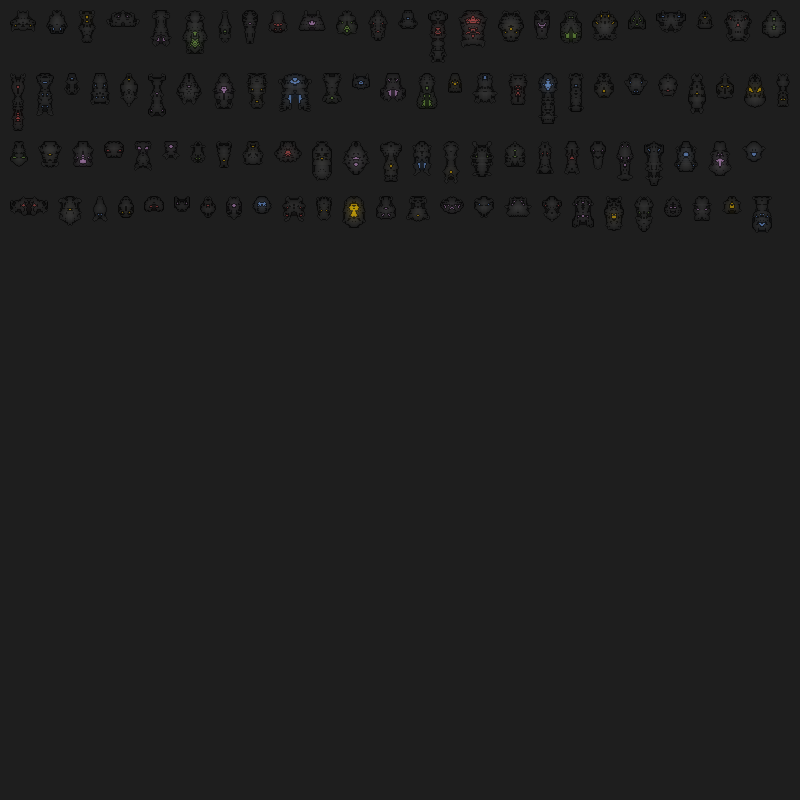
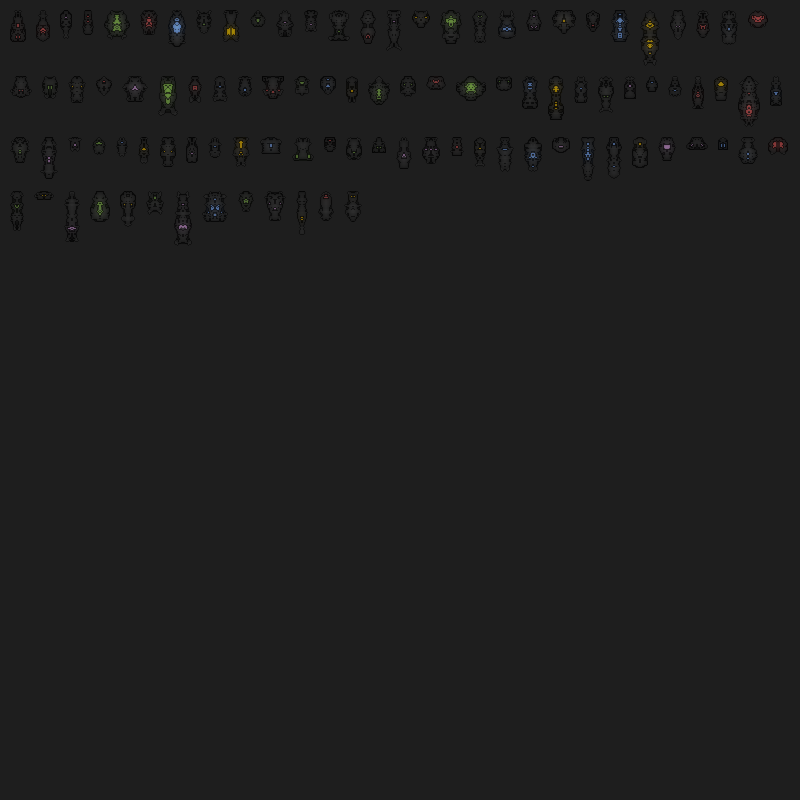
Updates

diff --git a/src/ajb/factory/VesselGeneratorFactory.java b/src/ajb/factory/VesselGeneratorFactory.java
@@ -46,74 +46,6 @@ public class VesselGeneratorFactory {
 		}
 	}
 	
-	private int calculateMinNoOfSteps(AssetSize size) {
-		
-		int result = 0;
-		
-		if (size.equals(AssetSize.RANDOM)) {
-			result = 5;
-		} else if (size.equals(AssetSize.SMALL)) {
-			result = 5;
-		} else if (size.equals(AssetSize.MEDIUM)) {
-			result = 10;
-		} else if (size.equals(AssetSize.LARGE)) {
-			result = 15;
-		}		
-		
-		return result;
-	}
-	
-	private int calculateMaxNoOfSteps(AssetSize size) {
-		
-		int result = 0;
-		
-		if (size.equals(AssetSize.RANDOM)) {
-			result = 45;
-		} else if (size.equals(AssetSize.SMALL)) {
-			result = 15;
-		} else if (size.equals(AssetSize.MEDIUM)) {
-			result = 30;
-		} else if (size.equals(AssetSize.LARGE)) {
-			result = 45;
-		}		
-		
-		return result;
-	}	
-	
-	private int calculateMinNoOfSubSteps(AssetSize size) {
-		
-		int result = 1;
-		
-		if (size.equals(AssetSize.RANDOM)) {
-			result = 15;
-		} else if (size.equals(AssetSize.SMALL)) {
-			result = 5;
-		} else if (size.equals(AssetSize.MEDIUM)) {
-			result = 10;
-		} else if (size.equals(AssetSize.LARGE)) {
-			result = 15;
-		}		
-		
-		return result;
-	}
-	
-	private int calculateMaxNoOfSubSteps(AssetSize size) {
-		
-		int result = 0;
-		
-		if (size.equals(AssetSize.RANDOM)) {
-			result = 50;
-		} else if (size.equals(AssetSize.SMALL)) {
-			result = 30;
-		} else if (size.equals(AssetSize.MEDIUM)) {
-			result = 40;
-		} else if (size.equals(AssetSize.LARGE)) {
-			result = 50;
-		}		
-		
-		return result;
-	}	
-
 	private boolean validateGrid(Pixel[][] grid, AssetSize size) {
 		
 		boolean result = true;
@@ -142,9 +74,9 @@ public class VesselGeneratorFactory {
 			result = false;
 		}		
 		
-		if (noOfSecondaryPixels > (noOfFilledPixels / 4)) {
-			result = false;
-		}		
+//		if (noOfSecondaryPixels > (noOfFilledPixels / 4)) {
+//			result = false;
+//		}		
 		
 		return result;
 	}
@@ -188,8 +120,8 @@ public class VesselGeneratorFactory {
 
 	private void addExtras(Pixel[][] grid, AssetSize size) {
 
-		int steps = RandomInt.anyRandomIntRange(calculateMinNoOfSteps(size), calculateMaxNoOfSteps(size));
-		int subSteps = RandomInt.anyRandomIntRange(calculateMinNoOfSubSteps(size), calculateMaxNoOfSubSteps(size));
+		int steps = RandomInt.anyRandomIntRange(calculateMinNoOfSteps(size) - 10, calculateMaxNoOfSteps(size) - 10);
+		int subSteps = RandomInt.anyRandomIntRange(calculateMinNoOfSubSteps(size) - 10, calculateMaxNoOfSubSteps(size) - 10);
 
 		for (int i = 0; i < steps; i++) {
 			Point point = PixelGridUtils.getRandomFilledPoint(grid);
@@ -208,4 +140,72 @@ public class VesselGeneratorFactory {
 
 		return PixelGridUtils.getRandomAdjacentPoint(point, grid);
 	}
+	
+	private int calculateMinNoOfSteps(AssetSize size) {
+		
+		int result = 0;
+		
+		if (size.equals(AssetSize.RANDOM)) {
+			result = 5;
+		} else if (size.equals(AssetSize.SMALL)) {
+			result = 5;
+		} else if (size.equals(AssetSize.MEDIUM)) {
+			result = 10;
+		} else if (size.equals(AssetSize.LARGE)) {
+			result = 20;
+		}		
+		
+		return result;
+	}
+	
+	private int calculateMaxNoOfSteps(AssetSize size) {
+		
+		int result = 0;
+		
+		if (size.equals(AssetSize.RANDOM)) {
+			result = 50;
+		} else if (size.equals(AssetSize.SMALL)) {
+			result = 15;
+		} else if (size.equals(AssetSize.MEDIUM)) {
+			result = 30;
+		} else if (size.equals(AssetSize.LARGE)) {
+			result = 50;
+		}		
+		
+		return result;
+	}	
+	
+	private int calculateMinNoOfSubSteps(AssetSize size) {
+		
+		int result = 1;
+		
+		if (size.equals(AssetSize.RANDOM)) {
+			result = 5;
+		} else if (size.equals(AssetSize.SMALL)) {
+			result = 5;
+		} else if (size.equals(AssetSize.MEDIUM)) {
+			result = 10;
+		} else if (size.equals(AssetSize.LARGE)) {
+			result = 15;
+		}		
+		
+		return result;
+	}
+	
+	private int calculateMaxNoOfSubSteps(AssetSize size) {
+		
+		int result = 0;
+		
+		if (size.equals(AssetSize.RANDOM)) {
+			result = 50;
+		} else if (size.equals(AssetSize.SMALL)) {
+			result = 30;
+		} else if (size.equals(AssetSize.MEDIUM)) {
+			result = 40;
+		} else if (size.equals(AssetSize.LARGE)) {
+			result = 50;
+		}		
+		
+		return result;
+	}	
 }
